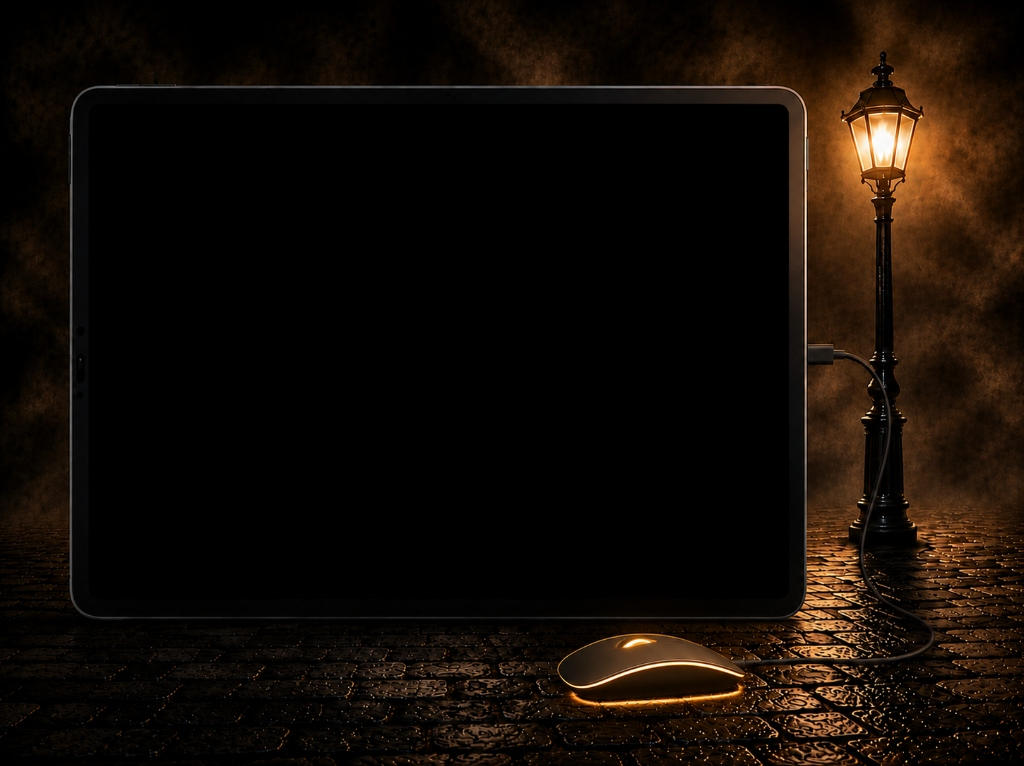
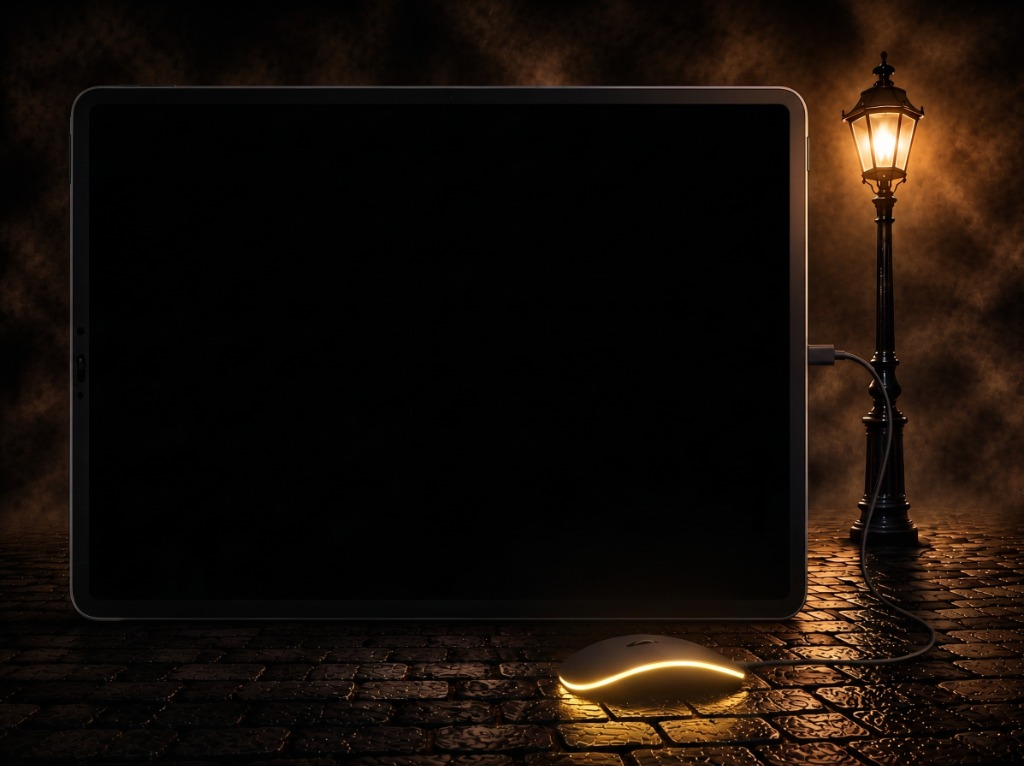
feat: replace glowing mouse background with the final corrected aligned image

Changed region(s): [[0.3125, 0.0901, 1.0, 1.0], [0.8438, 0.4504, 0.875, 0.5705]]

diff --git a/src/components/ProjectsStage.tsx b/src/components/ProjectsStage.tsx
@@ -377,7 +377,7 @@ export const ProjectsStage: React.FC = () => {
           >
             <img
               ref={plateRef}
-              src="/ipad-buehne.png?v=4"
+              src="/ipad-buehne.png?v=5"
               alt=""
               onLoad={() => window.dispatchEvent(new Event('resize'))}
               className="block w-full h-auto"
@@ -385,7 +385,7 @@ export const ProjectsStage: React.FC = () => {
 
             {/* Glowing Mouse Overlay */}
             <img
-              src="/ipad-buehne-on.jpg?v=4"
+              src="/ipad-buehne-on.jpg?v=5"
               alt=""
               className={`absolute left-0 top-0 w-full h-auto transition-opacity duration-[1000ms] pointer-events-none ${
                 live ? 'opacity-100' : 'opacity-0'
